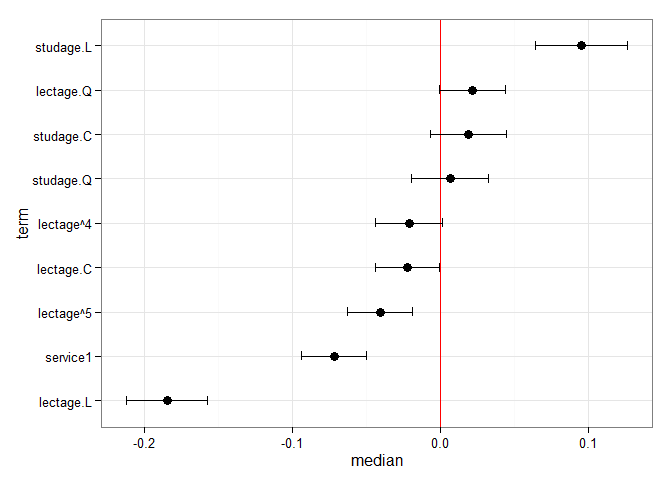
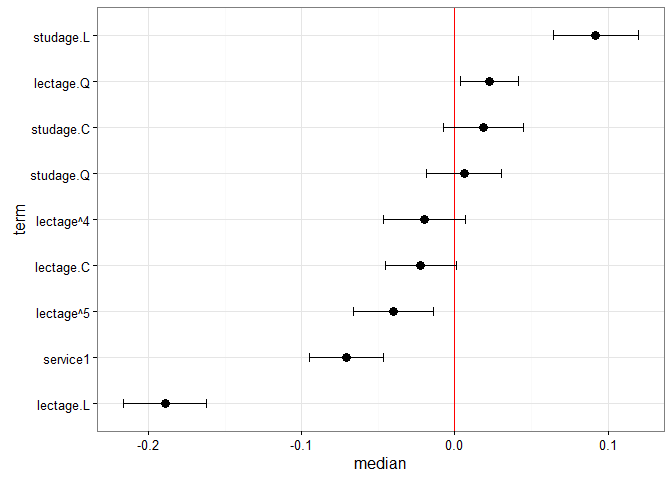
confirming readme still builds

diff --git a/README.md b/README.md
@@ -65,17 +65,17 @@ With `predictInterval` we obtain predictions that are more like the standard obj
 #predictInterval(m1, newdata = InstEval[1:10, ]) # all other parameters are optional
 predictInterval(m1, newdata = InstEval[1:10, ], n.sims = 500, level = 0.9, 
                 stat = 'median')
-#>         fit      lwr      upr
-#> 1  3.205852 1.119040 5.073677
-#> 2  3.014957 1.188017 4.894843
-#> 3  3.540154 1.853743 5.582607
-#> 4  3.068565 1.140955 5.257027
-#> 5  3.106084 1.423745 5.191017
-#> 6  3.112947 1.287469 5.414535
-#> 7  4.204398 2.183662 6.274698
-#> 8  3.894898 1.784715 5.885646
-#> 9  3.795654 1.757574 6.010877
-#> 10 3.311081 1.307305 5.291231
+#>         fit      upr      lwr
+#> 1  3.076677 5.003599 1.136557
+#> 2  3.096491 5.233988 1.205294
+#> 3  3.372522 5.437127 1.450743
+#> 4  3.041402 4.997011 1.163716
+#> 5  3.299229 5.229003 1.349082
+#> 6  3.367862 5.222391 1.184870
+#> 7  4.092996 6.104901 2.313722
+#> 8  3.758966 5.601710 1.858686
+#> 9  3.815623 5.872416 1.799072
+#> 10 3.512199 5.533667 1.569613
 ```
 
 Note that `predictInterval` is slower because it is computing simulations. It can also return all of the simulated `yhat` values as an attribute to the predict object itself.
@@ -91,12 +91,12 @@ Plotting
 feSims <- FEsim(m1, n.sims = 100)
 head(feSims)
 #>          term        mean      median         sd
-#> 1 (Intercept)  3.22487833  3.22311114 0.01712966
-#> 2    service1 -0.06723781 -0.06652520 0.01269254
-#> 3   lectage.L -0.18628490 -0.18722651 0.01534445
-#> 4   lectage.Q  0.02358642  0.02403768 0.01270285
-#> 5   lectage.C -0.02486989 -0.02294295 0.01314396
-#> 6   lectage^4 -0.01734253 -0.01696322 0.01410475
+#> 1 (Intercept)  3.22369693  3.22559188 0.02044559
+#> 2    service1 -0.07192204 -0.07203787 0.01284803
+#> 3   lectage.L -0.18593192 -0.18608018 0.01526385
+#> 4   lectage.Q  0.02344241  0.02211976 0.01252350
+#> 5   lectage.C -0.02349396 -0.02377418 0.01235913
+#> 6   lectage^4 -0.02078961 -0.02074230 0.01295802
 ```
 
 And we can also plot this:
@@ -106,19 +106,18 @@ plotFEsim(FEsim(m1, n.sims = 100), level = 0.9, stat = 'median', intercept = FAL
 ```
 
 ![](readmeplot/README-FEsimPlot-1.png)
-
-We can also quickly make caterpillar plots for the random-effect terms:
+ We can also quickly make caterpillar plots for the random-effect terms:
 
 ``` r
 reSims <- REsim(m1, n.sims = 100)
 head(reSims)
 #>   groupFctr groupID        term        mean      median        sd
-#> 1         s       1 (Intercept)  0.13651949  0.12518917 0.3028107
-#> 2         s       2 (Intercept) -0.06930294 -0.07109045 0.3048142
-#> 3         s       3 (Intercept)  0.30419535  0.29992844 0.2935636
-#> 4         s       4 (Intercept)  0.33169961  0.34054570 0.2880752
-#> 5         s       5 (Intercept)  0.07810358  0.06039528 0.3427175
-#> 6         s       6 (Intercept)  0.12541267  0.12544140 0.2388220
+#> 1         s       1 (Intercept)  0.18201286  0.19515930 0.3004651
+#> 2         s       2 (Intercept) -0.13026955 -0.13170366 0.3041906
+#> 3         s       3 (Intercept)  0.33702843  0.33424161 0.2595199
+#> 4         s       4 (Intercept)  0.25165774  0.21142631 0.2881497
+#> 5         s       5 (Intercept)  0.07837553  0.05368640 0.3410308
+#> 6         s       6 (Intercept)  0.07889512  0.08010547 0.2007497
 ```
 
 ``` r
@@ -126,8 +125,7 @@ plotREsim(REsim(m1, n.sims = 100), stat = 'median', sd = TRUE)
 ```
 
 ![](readmeplot/README-reSimplot-1.png)
-
-Note that `plotREsim` highlights group levels that have a simulated distribution that does not overlap 0 -- these appear darker. The lighter bars represent grouping levels that are not distinguishable from 0 in the data.
+ Note that `plotREsim` highlights group levels that have a simulated distribution that does not overlap 0 -- these appear darker. The lighter bars represent grouping levels that are not distinguishable from 0 in the data.
 
 Sometimes the random effects can be hard to interpret and not all of them are meaningfully different from zero. To help with this `merTools` provides the `expectedRank` function, which provides the percentile ranks for the observed groups in the random effect distribution taking into account both the magnitude and uncertainty of the estimated effect for each group.
 
@@ -151,13 +149,14 @@ It can still be difficult to interpret the results of LMM and GLMM models, espec
 ``` r
 impSim <- REimpact(m1, InstEval[7, ], groupFctr = "d", breaks = 5, 
                    n.sims = 300, level = 0.9)
+#> Warning: executing %dopar% sequentially: no parallel backend registered
 impSim
 #>   case bin   AvgFit     AvgFitSE nobs
-#> 1    1   1 2.803774 2.931571e-04  193
-#> 2    1   2 3.262422 6.069156e-05  240
-#> 3    1   3 3.558152 5.751638e-05  254
-#> 4    1   4 3.840147 5.743902e-05  265
-#> 5    1   5 4.239925 1.959778e-04  176
+#> 1    1   1 3.227589 3.938623e-05  193
+#> 2    1   2 3.229472 2.755018e-05  240
+#> 3    1   3 3.216665 2.930201e-05  254
+#> 4    1   4 3.212558 3.210939e-05  265
+#> 5    1   5 3.219888 4.038770e-05  176
 ```
 
 The result of `REimpact` shows the change in the `yhat` as the case we supplied to `newdata` is moved from the first to the fifth quintile in terms of the magnitude of the group factor coefficient. We can see here that the individual professor effect has a strong impact on the outcome variable. This can be shown graphically as well:
@@ -170,8 +169,7 @@ ggplot(impSim, aes(x = factor(bin), y = AvgFit, ymin = AvgFit - 1.96*AvgFitSE,
 ```
 
 ![](readmeplot/README-reImpactplot-1.png)
-
-Here the standard error is a bit different -- it is the weighted standard error of the mean effect within the bin. It does not take into account the variability within the effects of each observation in the bin -- accounting for this variation will be a future addition to `merTools`.
+ Here the standard error is a bit different -- it is the weighted standard error of the mean effect within the bin. It does not take into account the variability within the effects of each observation in the bin -- accounting for this variation will be a future addition to `merTools`.
 
 Explore Substantive Impacts
 ---------------------------
